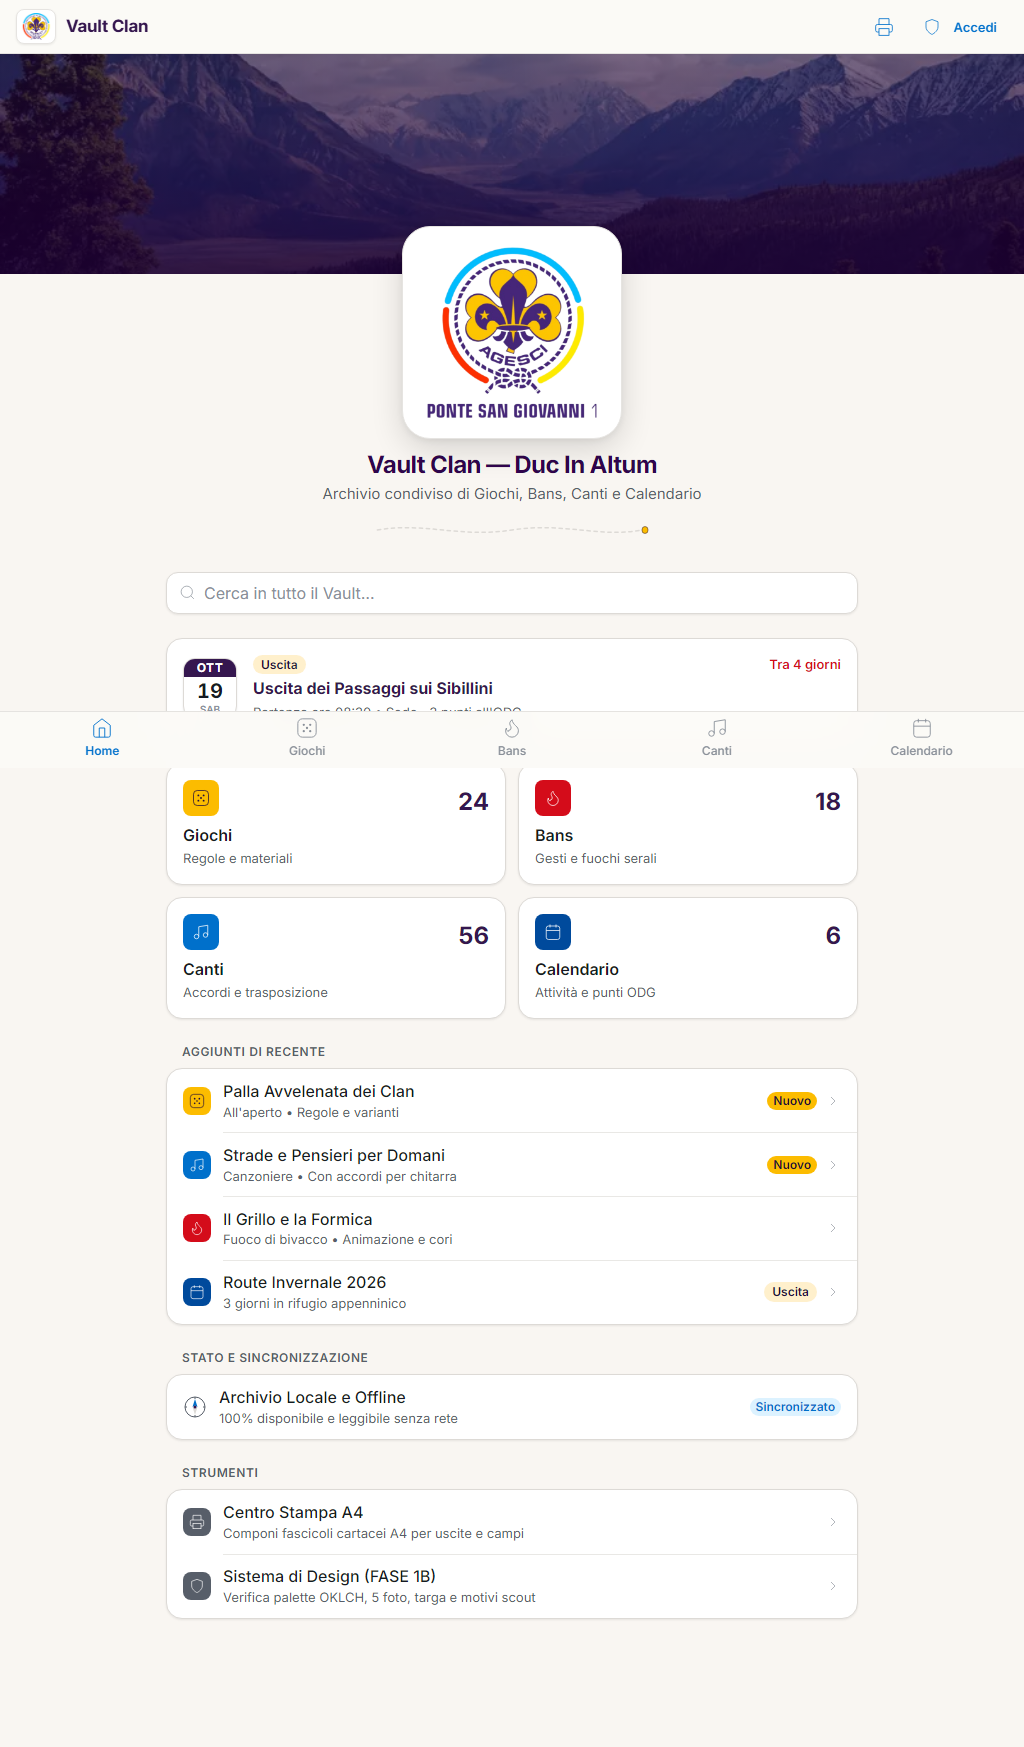
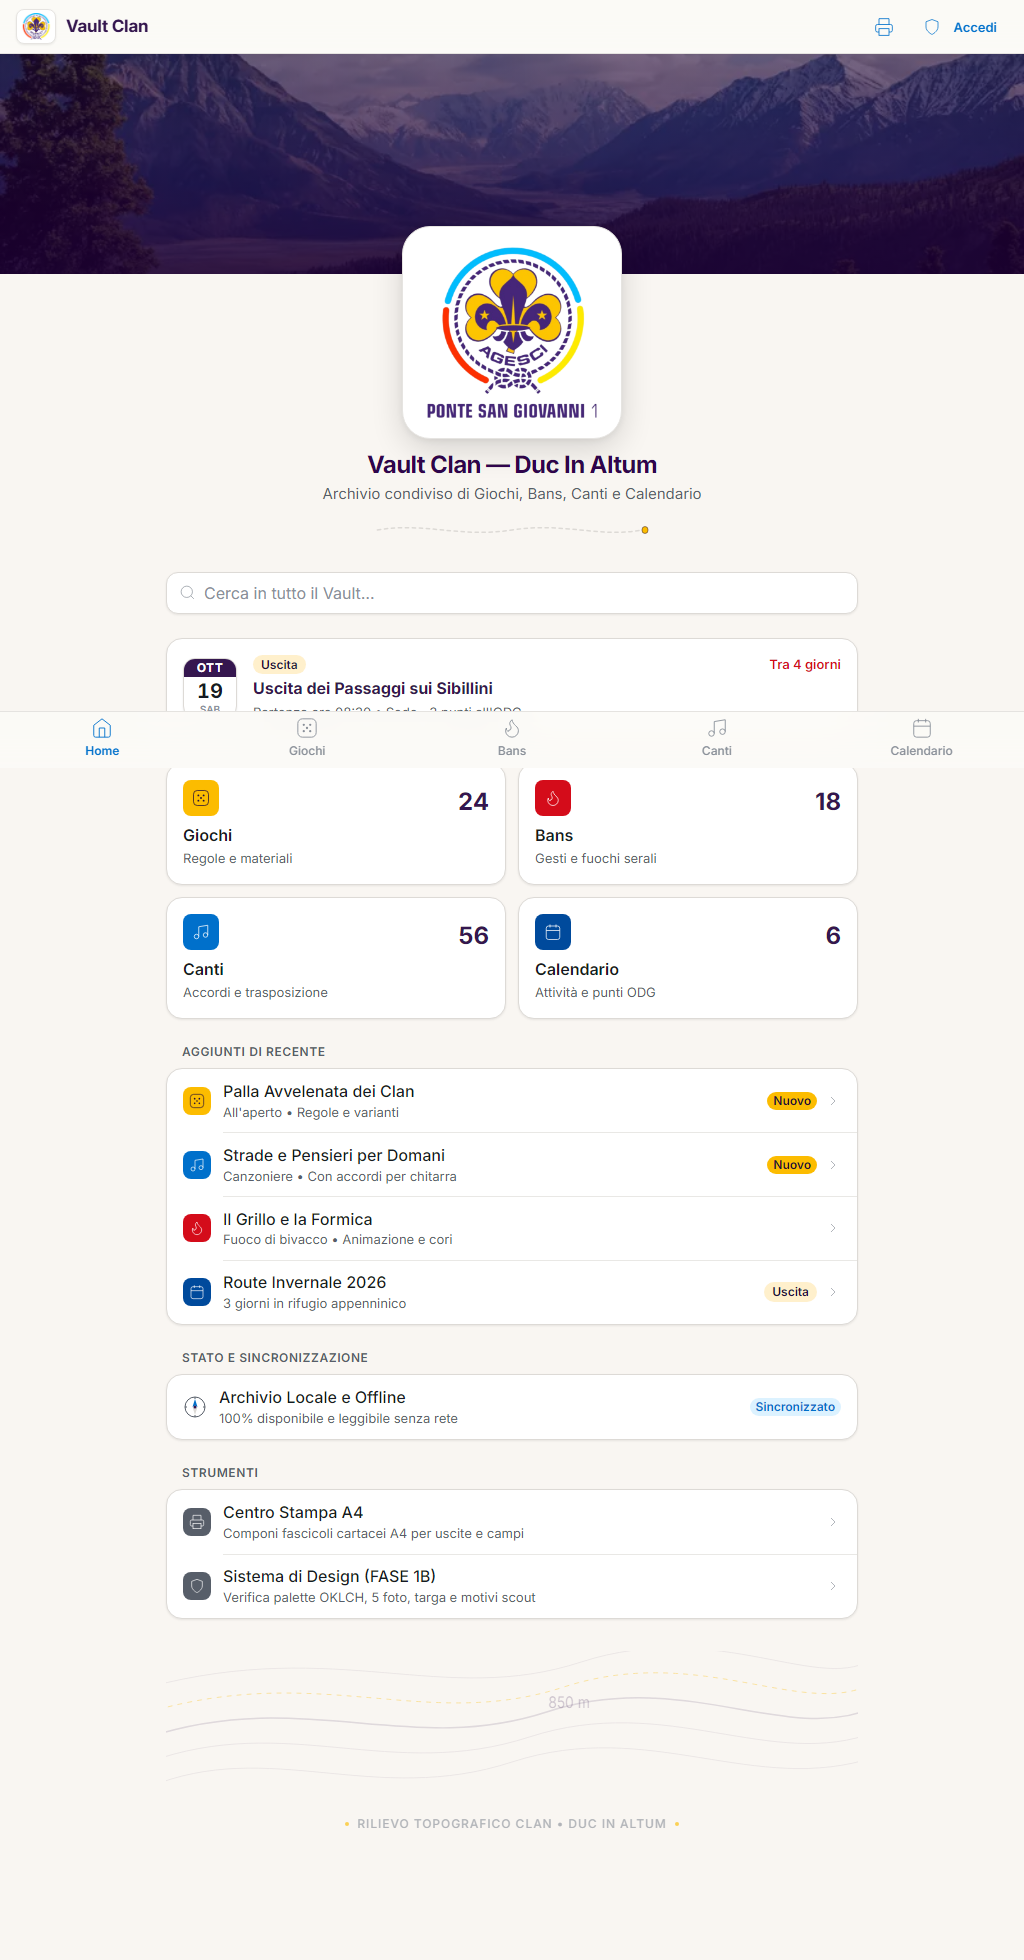
feat(ui): aggiunta sfondo con curve di livello topografiche e animazione fluida in fondo pagina

diff --git a/src/ui/TopographicBackground.tsx b/src/ui/TopographicBackground.tsx
@@ -1,0 +1,93 @@
+export interface TopographicBackgroundProps {
+  className?: string;
+  showCaption?: boolean;
+}
+
+/**
+ * Sfondo Vettoriale con Curve di Livello Topografiche (Isoipse Cartografiche)
+ * Ispirato alle carte IGM scout 1:25.000 dei Monti Sibillini e colline perugine.
+ * - Tratto sottile ad altissima definizione
+ * - Opacità delicata (6-12%) integrata nei token dell'inchiostro
+ * - Lenta animazione armoniosa su sole proprietà transform
+ */
+export function TopographicBackground({
+  className = '',
+  showCaption = true,
+}: TopographicBackgroundProps) {
+  return (
+    <div
+      className={`topo-contour-wrapper ${className}`.trim()}
+      aria-hidden="true"
+      role="presentation"
+    >
+      <svg
+        viewBox="0 0 800 140"
+        fill="none"
+        xmlns="http://www.w3.org/2000/svg"
+        className="topo-contour-svg"
+        preserveAspectRatio="none"
+      >
+        {/* Curva 1 (Profondità esterna) */}
+        <g className="topo-contour-anim-2">
+          <path
+            d="M-20 120 C120 70, 240 140, 400 95 C560 50, 680 130, 820 90"
+            className="topo-line"
+          />
+        </g>
+
+        {/* Curva 2 (Intermedia) */}
+        <g className="topo-contour-anim-1">
+          <path
+            d="M-20 95 C140 45, 260 115, 420 70 C580 25, 700 105, 820 65"
+            className="topo-line"
+          />
+        </g>
+
+        {/* Curva 3 (Direttrice Principale con spessore maggiore) */}
+        <g className="topo-contour-anim-3">
+          <path
+            d="M-20 70 C160 20, 280 90, 440 45 C600 0, 720 80, 820 40"
+            className="topo-line topo-line-major"
+          />
+          {/* Quota altimetrica discreta */}
+          <text
+            x="442"
+            y="41"
+            fill="var(--color-ink)"
+            opacity="0.22"
+            fontSize="9"
+            fontFamily="var(--font-sans)"
+            fontWeight="600"
+            letterSpacing="0.05em"
+          >
+            850 m
+          </text>
+        </g>
+
+        {/* Curva 4 (Sentiero / Curva d'accento tratteggiata gialla scout) */}
+        <g className="topo-contour-anim-1">
+          <path
+            d="M-20 45 C180 -5, 300 65, 460 20 C620 -25, 740 55, 820 15"
+            className="topo-line topo-line-accent"
+          />
+        </g>
+
+        {/* Curva 5 (Vetta / Cresta interna) */}
+        <g className="topo-contour-anim-2">
+          <path
+            d="M-20 20 C200 -30, 320 40, 480 -5 C640 -50, 760 30, 820 -10"
+            className="topo-line"
+          />
+        </g>
+      </svg>
+
+      {showCaption ? (
+        <div className="topo-contour-caption">
+          <span className="topo-dot" />
+          <span>Rilievo Topografico Clan • Duc In Altum</span>
+          <span className="topo-dot" />
+        </div>
+      ) : null}
+    </div>
+  );
+}

diff --git a/src/styles/components.css b/src/styles/components.css
@@ -1468,3 +1468,108 @@
     margin-top: 0;
   }
 }
+
+/* --- 20. SFONDO TOPOGRAFICO CON ISOIPSE CARTOGRAFICHE (FONDO PAGINA VIVO) --- */
+.topo-contour-wrapper {
+  position: relative;
+  width: 100%;
+  overflow: hidden;
+  margin-top: var(--space-8);
+  margin-bottom: var(--space-4);
+  padding: var(--space-4) 0 var(--space-2);
+  display: flex;
+  flex-direction: column;
+  align-items: center;
+  justify-content: center;
+  pointer-events: none;
+  user-select: none;
+}
+
+.topo-contour-svg {
+  width: 100%;
+  max-width: 820px;
+  height: 140px;
+  display: block;
+  overflow: visible;
+}
+
+.topo-line {
+  fill: none;
+  stroke: var(--color-ink);
+  stroke-width: 0.85;
+  opacity: 0.08;
+  stroke-linecap: round;
+  vector-effect: non-scaling-stroke;
+}
+
+.topo-line-major {
+  stroke-width: 1.4;
+  opacity: 0.13;
+}
+
+.topo-line-accent {
+  stroke: var(--color-giochi);
+  stroke-width: 1;
+  opacity: 0.35;
+  stroke-dasharray: 4 6;
+}
+
+.topo-contour-caption {
+  font-size: var(--font-size-2xs);
+  color: var(--color-text-tertiary);
+  letter-spacing: 0.08em;
+  text-transform: uppercase;
+  font-weight: 500;
+  margin-top: var(--space-2);
+  display: flex;
+  align-items: center;
+  gap: var(--space-2);
+  opacity: 0.65;
+}
+
+.topo-dot {
+  width: 4px;
+  height: 4px;
+  border-radius: 50%;
+  background-color: var(--color-giochi);
+  display: inline-block;
+}
+
+/* Animazione fluida e impercettibile (slow breathing wave su sole proprietà transform) */
+.topo-contour-anim-1 {
+  animation: topoWaveOne 18s ease-in-out infinite alternate;
+}
+
+.topo-contour-anim-2 {
+  animation: topoWaveTwo 24s ease-in-out infinite alternate;
+}
+
+.topo-contour-anim-3 {
+  animation: topoWaveThree 20s ease-in-out infinite alternate;
+}
+
+@keyframes topoWaveOne {
+  0% { transform: translateY(0); }
+  50% { transform: translateY(-4px); }
+  100% { transform: translateY(2px); }
+}
+
+@keyframes topoWaveTwo {
+  0% { transform: translateY(0); }
+  50% { transform: translateY(3px); }
+  100% { transform: translateY(-3px); }
+}
+
+@keyframes topoWaveThree {
+  0% { transform: translateY(0); }
+  50% { transform: translateY(-5px); }
+  100% { transform: translateY(1px); }
+}
+
+@media (prefers-reduced-motion: reduce) {
+  .topo-contour-anim-1,
+  .topo-contour-anim-2,
+  .topo-contour-anim-3 {
+    animation: none;
+  }
+}

diff --git a/src/features/home/HomeView.tsx b/src/features/home/HomeView.tsx
@@ -9,6 +9,7 @@ import { BrandLogo } from '../../ui/BrandLogo';
 import { HeaderBanner } from '../../ui/HeaderBanner';
 import { SectionIcon } from '../../ui/SectionIcon';
 import { TheTrail, CompassSync } from '../../ui/ScoutMotifs';
+import { TopographicBackground } from '../../ui/TopographicBackground';
 
 export function HomeView() {
   const [searchQuery, setSearchQuery] = useState('');
@@ -252,6 +253,9 @@ export function HomeView() {
             onClick={() => navigate('design')}
           />
         </GroupedList>
+
+        {/* 10. SFONDO TOPOGRAFICO CON ISOIPSE CARTOGRAFICHE */}
+        <TopographicBackground />
       </div>
     </div>
   );

diff --git a/src/features/design/DesignSystemView.tsx b/src/features/design/DesignSystemView.tsx
@@ -12,6 +12,7 @@ import { Icon } from '../../ui/Icon';
 import { BrandLogo } from '../../ui/BrandLogo';
 import { SectionIcon } from '../../ui/SectionIcon';
 import { TheTrail, CompassSync } from '../../ui/ScoutMotifs';
+import { TopographicBackground } from '../../ui/TopographicBackground';
 import { PHOTOS } from '../../lib/photos';
 
 export function DesignSystemView() {
@@ -396,6 +397,9 @@ export function DesignSystemView() {
           onClose={() => setShowToast(false)}
         />
       ) : null}
+
+      {/* SFONDO TOPOGRAFICO CON ISOIPSE CARTOGRAFICHE */}
+      <TopographicBackground />
     </div>
   );
 }
